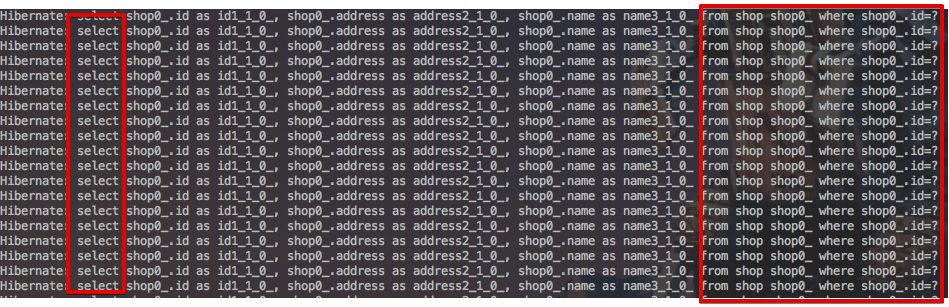
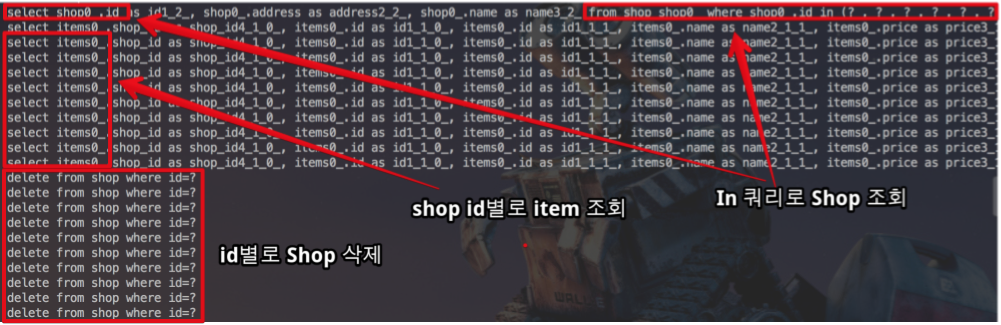
[jpa-massive-delete] 내용 전체 재정리 (코드 트레이스 내용 추가)

diff --git a/jpa-massive-delete/src/main/java/com/jojoldu/delete/domain/CustomerRepository.java b/jpa-massive-delete/src/main/java/com/jojoldu/delete/domain/CustomerRepository.java
@@ -1,0 +1,27 @@
+package com.jojoldu.delete.domain;
+
+import org.springframework.data.jpa.repository.JpaRepository;
+import org.springframework.data.jpa.repository.Modifying;
+import org.springframework.data.jpa.repository.Query;
+import org.springframework.data.repository.query.Param;
+import org.springframework.transaction.annotation.Transactional;
+
+import java.util.List;
+
+/**
+ * Created by jojoldu@gmail.com on 2017. 10. 14.
+ * Blog : http://jojoldu.tistory.com
+ * Github : https://github.com/jojoldu
+ */
+
+public interface CustomerRepository extends JpaRepository<Customer, Long>{
+
+    @Modifying
+    @Transactional
+    long deleteByIdIn(List<Long> ids);
+
+    @Transactional
+    @Modifying
+    @Query("delete from Customer c where c.id in :ids")
+    void deleteAllByIdInQuery(@Param("ids") List<Long> ids);
+}

diff --git a/jpa-massive-delete/src/main/java/com/jojoldu/delete/domain/Customer.java b/jpa-massive-delete/src/main/java/com/jojoldu/delete/domain/Customer.java
@@ -1,0 +1,30 @@
+package com.jojoldu.delete.domain;
+
+import lombok.Getter;
+import lombok.NoArgsConstructor;
+
+import javax.persistence.Entity;
+import javax.persistence.GeneratedValue;
+import javax.persistence.Id;
+
+/**
+ * Created by jojoldu@gmail.com on 2017. 10. 14.
+ * Blog : http://jojoldu.tistory.com
+ * Github : https://github.com/jojoldu
+ */
+
+@Entity
+@Getter
+@NoArgsConstructor
+public class Customer {
+
+    @Id
+    @GeneratedValue
+    private Long id;
+
+    private String name;
+
+    public Customer(String name) {
+        this.name = name;
+    }
+}

diff --git a/jpa-massive-delete/README.md b/jpa-massive-delete/README.md
@@ -239,4 +239,86 @@ class ShopRepositoryTest extends Specification {
     }
 ```
 
-![delete2_1](./images/delete2_1.png)
+
+
+
+```java
+@Entity
+@Getter
+@NoArgsConstructor
+public class Customer {
+
+    @Id
+    @GeneratedValue
+    private Long id;
+
+    private String name;
+
+    public Customer(String name) {
+        this.name = name;
+    }
+}
+
+public interface CustomerRepository extends JpaRepository<Customer, Long>{
+
+    @Modifying
+    @Transactional
+    long deleteByIdIn(List<Long> ids);
+}
+```
+
+다른 엔티티와 관계가 전혀 없는 ```Customer``` 엔티티를 생성해서 삭제 기능을 테스트해보겠습니다.  
+
+```groovy
+@SpringBootTest
+class CustomerRepositoryTest extends Specification {
+
+    @Autowired
+    private CustomerRepository customerRepository;
+
+    def "Customer in 삭제" () {
+        given:
+        for(int i=0;i<100;i++){
+            customerRepository.save(new Customer(i+"님"))
+        }
+        when:
+        customerRepository.deleteByIdIn(Arrays.asList(1L,2L,3L))
+
+        then:
+        customerRepository.findAll().size() == 97
+    }
+}
+```
+
+위 테스트를 실행해 콘솔을 확인해보시면!
+
+![관계가없을때](./images/관계가없을때.png)
+
+ ```in```쿼리로 조회하는 1개의 쿼리와 id별로 삭제하는 쿼리가 발생합니다.  
+여기서 재밌는 것은 처음 사례처럼 **1건씩 조회하는 쿼리는 발생하지 않았다**는 것입니다.  
+자 그럼 확인해야할 내용들을 정리해보겠습니다.
+ ```deleteByXXXIn```로 된 JpaRepository 메소드를 사용하면
+
+1. ```In```으로 이루어진 조회쿼리가 1회 무조건 발생한다.
+2. 삭제가 **in조건별로 1건씩** 진행된다.
+3. ```@OneToMany```와 같은 관계가 맺어졌다면 **in조건별로 1회씩 조회가 무조건 발생**한다.
+
+### 트레이스
+
+자 그럼 JpaRepository 코드를 쫓아가보겠습니다.
+
+![deleteExecution](./images/deleteExecution.png)
+
+![deleteExecution2](./images/deleteExecution2.png)
+
+
+ ```DefaultDeleteEventListener```
+
+![cascadeBeforeDelete1](./images/cascadeBeforeDelete1.png)
+
+
+### 해결책
+
+![해결책1](./images/해결책1.png)
+
+![삭제시레퍼런스오류발생](./images/삭제시레퍼런스오류발생.png)
